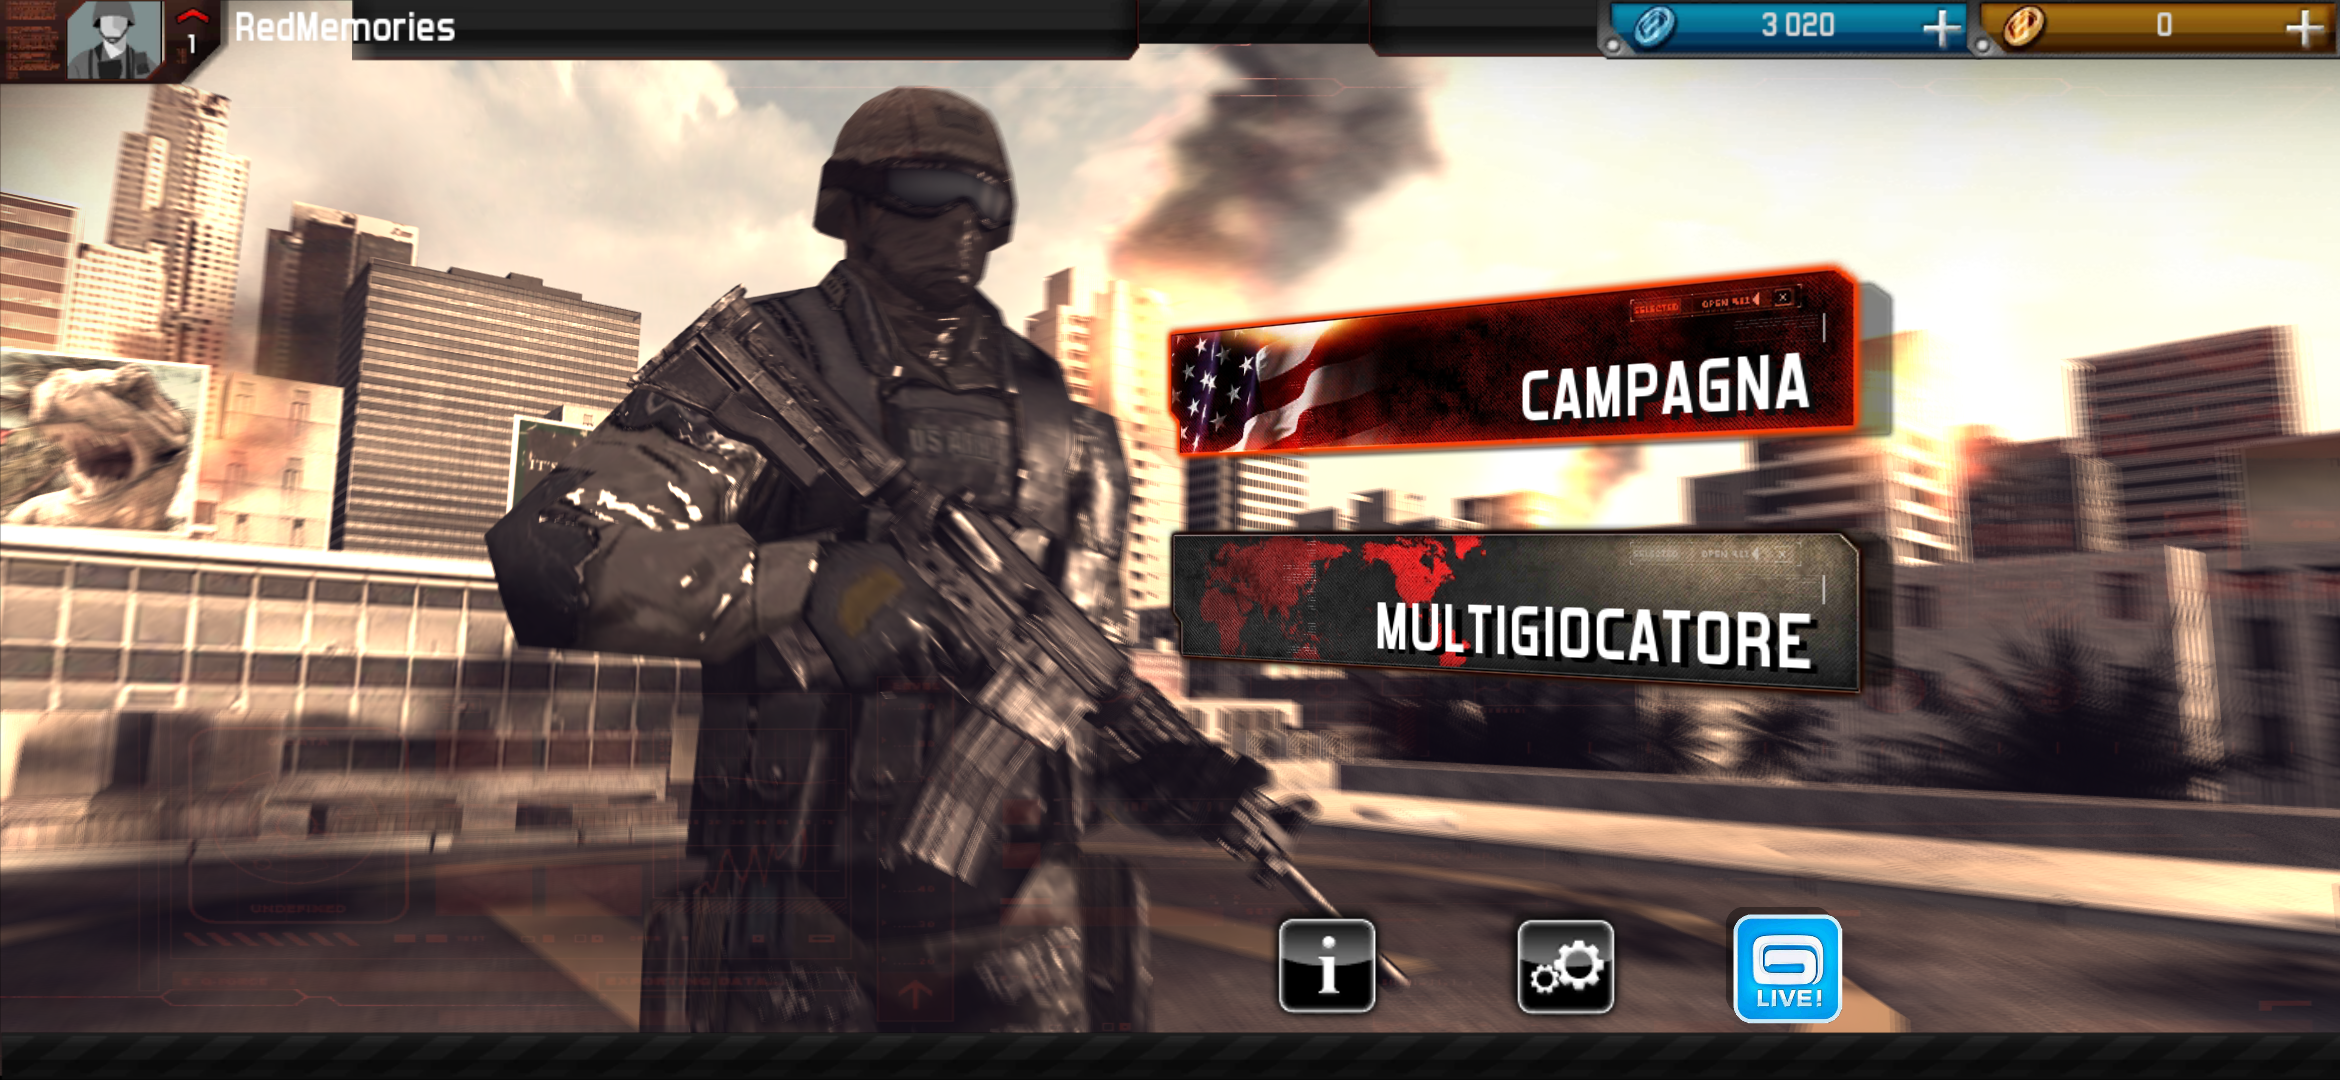
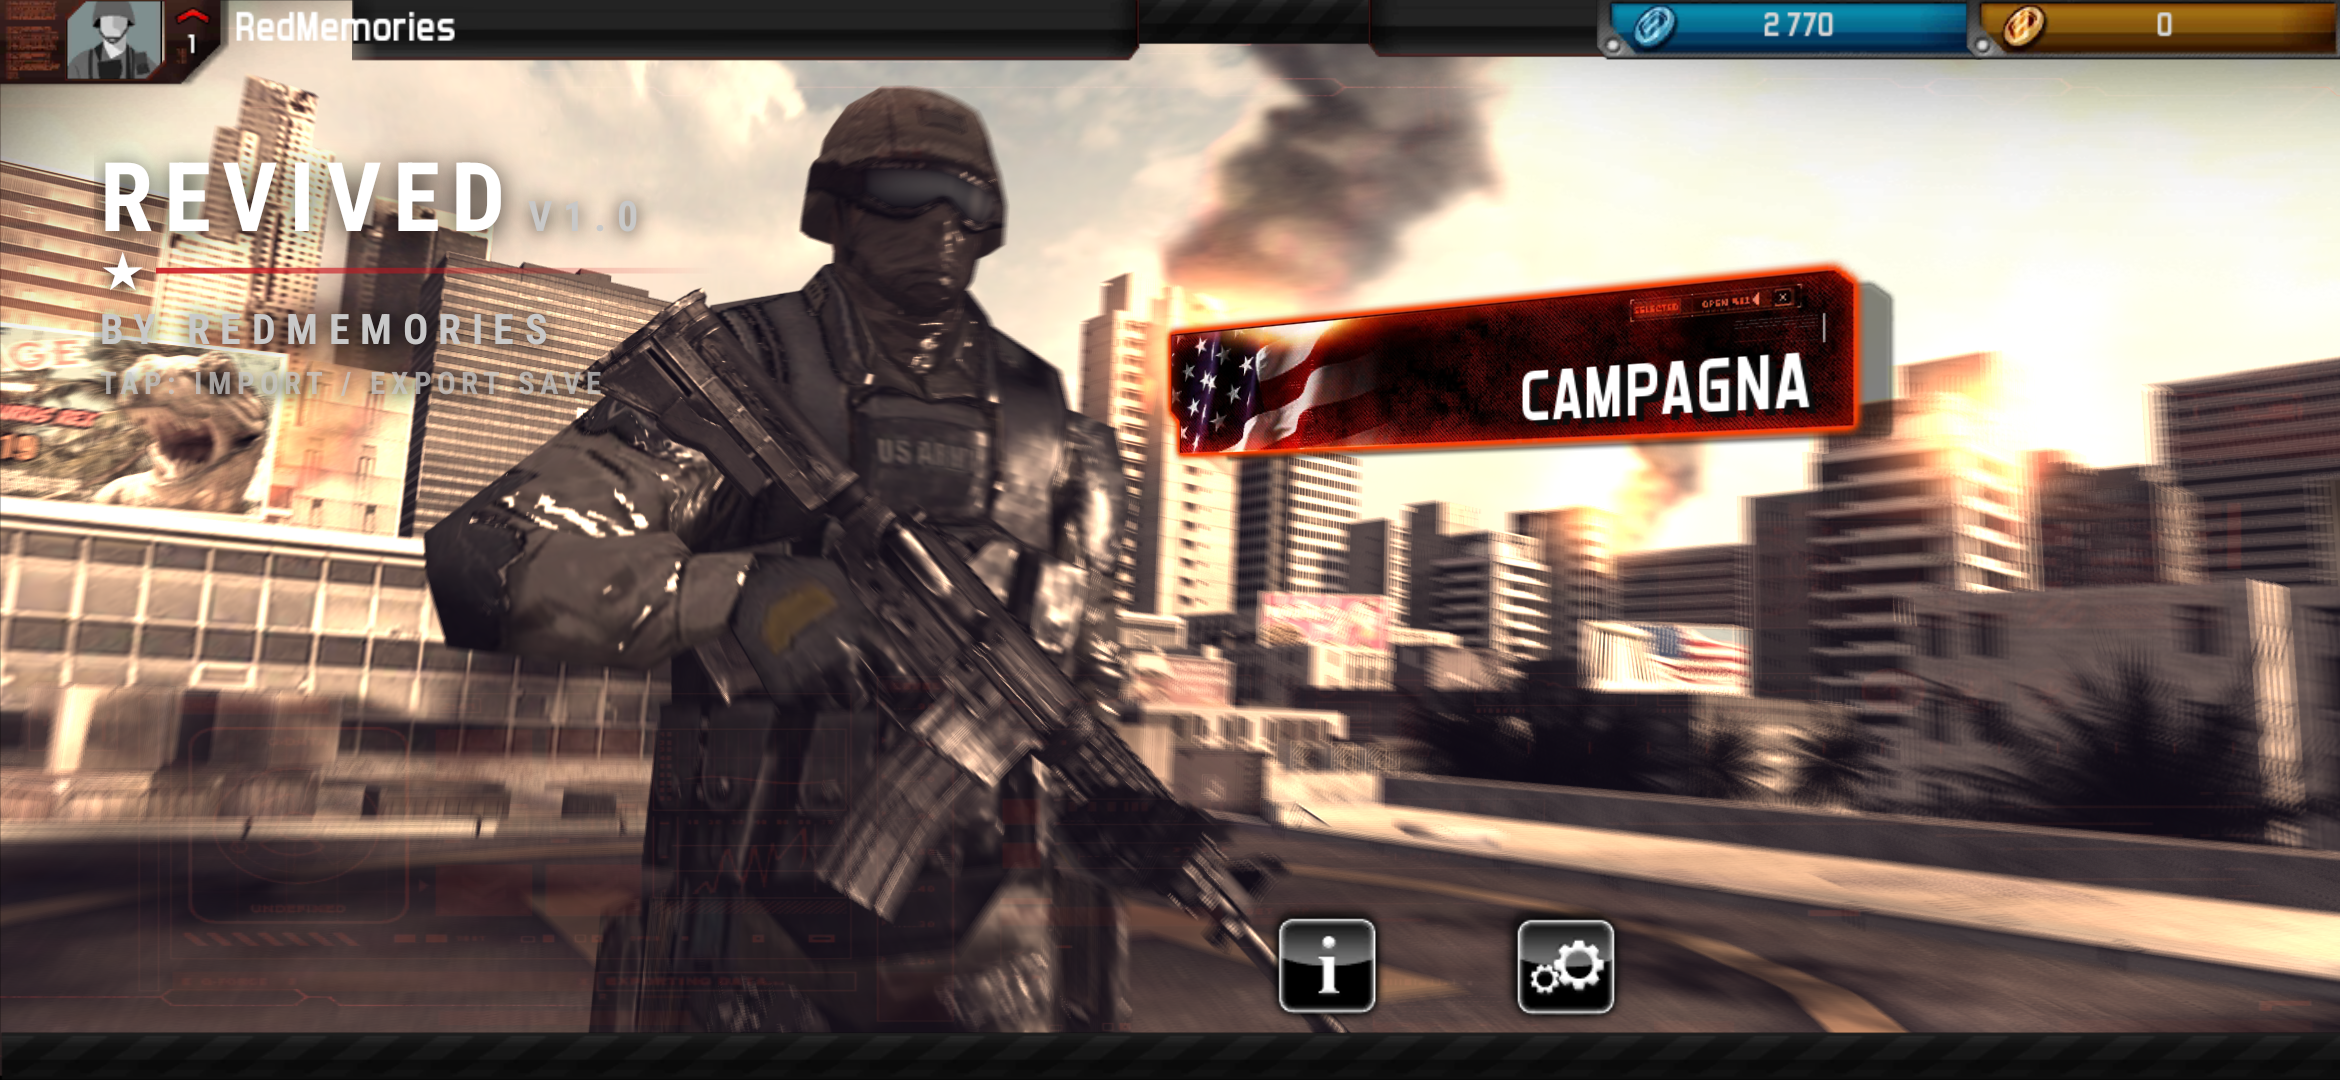
Release v1.0

diff --git a/README.md b/README.md
@@ -1,42 +1,82 @@
 # Modern Combat 3 Revived
 
-Progress: **79%**
+[![Main menu](screenshots/main-menu.png)](screenshots/main-menu.png)
 
-`████████░░`
+> Modern Combat 3: Fallen Nation is a game by Gameloft. This is a non-commercial fan project, not affiliated with Gameloft. The game was pulled from the stores years ago. This repo is my private archive, please don't share the release files.
 
-[![Title screen](screenshots/title.png)](screenshots/title.png)
+**Download: [Releases](../../releases)**: Android (64-bit) and PC (Windows).
 
-> Modern Combat 3: Fallen Nation is a mobile game by Gameloft. This is a non-commercial fan project, not affiliated with Gameloft. The game was pulled from the stores years ago.
+## What I did
 
-## A note from me
+I didn't remake the game and I didn't touch the gameplay. The campaign, the weapons, the maps and the enemies are exactly the ones from 2011.
 
-It's taking me a bit longer than planned, because I stopped to fix the issues people reported in my other games right away. Hopefully nobody has problems anymore after those updates haha.
+As with Modern Combat 4, I recompiled the whole engine to 64-bit code ahead of time: 28,964 of its 28,968 functions, rebuilt for today's phones. The game now runs as a modern native 64-bit app, at 120 fps on my phone.
 
-Anyway, I'm making the game fully playable, and hopefully bug-free from the start on every device, so I won't have to update it many times. There will still be updates later for multiplayer, and I think that's where the problems will start. I'll use the same approach as MC4.
+Once it was running, I gave it the treatment it deserves on a modern phone:
 
-## Where it's at
-
-- **Native 64-bit: done.** The whole engine is converted to native 64-bit code: 28,964 of its 28,968 functions. It runs on today's 64-bit-only phones as a modern app.
-- **The campaign is playable** on my test phone: title screen, menus, mission briefings with their videos and subtitles, and Mission 1 with shooting, moving and the story scenes, at 120 fps.
-- **HD textures: done.** The iOS version had 900+ textures at double resolution. They're now in the Android game: faces, uniforms, weapons and buildings are much sharper.
-- **Best graphics on every phone:** the game always uses its highest graphics profile, with 32-bit color, 16x anisotropic filtering and 4x antialiasing.
-- **Controller support: done.** It works in menus and in game, with the touch controls hidden while you play with the controller. Tested with an Xbox layout; PlayStation and Switch controllers use the same button positions.
-- **Gyroscope aiming: done**, with calibration and sensitivity in the game options.
-- Touch controls work right up to the screen edges, without triggering Android's back gesture.
-- I checked all of the game's shaders against a strict graphics driver, the kind non-Snapdragon phones use, and fixed the one that would have broken there.
-- Native resolution and full screen, edge to edge.
-- Music, voices and sound effects work.
-- Saves work: "Continue" brings you back where you left off.
-
-### HD textures, before and after
-
-Top: the original Android textures. Bottom: the new HD ones.
+- **HD textures.** The iOS version had 900+ textures at double resolution: faces, uniforms, weapons and buildings. They're now in the Android game, converted to a format every Android GPU can read.
+- **The highest graphics profile on every GPU.** The game only knew the phones of 2011 and gave every newer GPU the low-end profile. Now everyone gets the best one, with 32-bit color, 16x anisotropic filtering and 4x anti-aliasing.
+- **Full screen at the screen's native resolution**, edge to edge on today's tall displays.
+- **Mission briefings with subtitles in your language.** The original Android version never showed them.
+- **Controller support** in the menus and in the game, using the game's own controller mode: the touch controls disappear while you play with the controller. Tested with an Xbox layout; PlayStation and Switch controllers use the same button positions.
+- **Gyroscope aiming**, with calibration and sensitivity in the game options.
+- **Touch controls that work on tall screens**: swiping from the edges to aim no longer triggers Android's back gesture.
+- **A crash that closed the game** after going back to the menu from a mission a few times is fixed. It was a bug in the original 2011 engine.
+- **Settings**: long-press the game icon → **Settings**: graphics quality, frame rate limit (max, 90 or 60) and an **Anti-aliasing** on/off switch for phones that have trouble with it.
 
 [![HD textures, before and after](screenshots/hd-textures-before-after.png)](screenshots/hd-textures-before-after.png)
 
-### Screenshots
+*Top: the original Android textures. Bottom: the HD ones.*
 
-[![Main menu](screenshots/main-menu.png)](screenshots/main-menu.png)
+## Bring your save (#5)
+
+You can import your own `SaveGame.bin`: tap **REVIVED by RedMemories** in the main menu → **Import**, and pick the file (pick `CheckPoint.bin` too, if you have it, to continue mid-mission). The game checks the file first and makes a backup of your current save in `Download/ModernCombat3Revived/Saves`. **Export** copies your save there, so you can move it to another phone or to the PC.
+
+Your progress stays yours: credits, rank and unlocks are the ones in your save, nothing is unlocked for you.
+
+Saves from the old Gameloft APKs should work too, since the file format is the same, but I didn't have one to test. If yours is rejected, please attach it to issue #5.
+
+## Offline, no ads
+
+The game is fully offline, with no ads and no tracking. Gameloft's online services don't exist anymore: the game never reaches them, and the buttons that sent you there (LIVE!, Twitter, Customer care, the "+" that opened the paid shop) are gone. The in-game shop that uses the credits you earn by playing still works. The game data is packed inside the APK, so there's nothing to download separately.
+
+Multiplayer is hidden in this version: it comes in a later update.
+
+[![Briefing](screenshots/briefing.png)](screenshots/briefing.png)
+
+## Install
+
+### Android
+
+1. Download `ModernCombat3Revived.apk` from **Releases**
+2. Install it
+3. Open it. The first launch takes a few seconds to unpack the game, after that it starts right away
+
+Requirements: 64-bit Android phone with **Android 10 or newer**, about **4 GB** of free space. I play it on a Galaxy S26 Ultra. I haven't tried it on phones without a Snapdragon chip yet (MediaTek Dimensity, Exynos, Google Tensor), but I checked all the game's shaders against a strict graphics driver, the kind those phones use, and fixed the one that would have broken there. If you play on one of them, let me know how it runs.
+
+### PC (Windows 10/11, 64-bit)
+
+1. Download `ModernCombat3Revived-PC.zip` from **Releases** and extract it
+2. Double-click `ModernCombat3Revived.exe`
+
+Nothing else to install. It needs a graphics card with Direct3D 11. Keyboard and mouse (WASD, mouse to aim, left click fire, right click aim, R reload, G grenade, Shift sprint, Esc pause) or a controller. All the controls and options are in `README.txt` inside the zip.
+
+Your PC save is in the `save\app` folder: click **REVIVED by RedMemories** in the main menu to open it. Phone and PC saves are the same file, so you can move your progress between them.
+
+[![PC](screenshots/pc-main-menu.png)](screenshots/pc-main-menu.png)
+
+### Updates
+
+When a new version comes out you don't need the big download again: install `ModernCombat3Revived-update.apk` over the game, or extract `ModernCombat3Revived-PC-update.zip` over your PC folder. Your saves are kept.
+
+## Reporting problems
+
+- **Android:** go to the home screen, **long-press the game icon → Save report**. The file is saved in `Download/ModernCombat3Revived`. If the game crashes, a report is saved there automatically.
+- **PC:** `save\log.txt` in the game folder.
+
+Please open an issue with the file and say which version you have: it's on the main menu, next to **REVIVED**.
+
+## Screenshots
 
 [![Helicopter](screenshots/helicopter.png)](screenshots/helicopter.png)
 
@@ -46,8 +86,29 @@ Top: the original Android textures. Bottom: the new HD ones.
 
 ## What's next
 
-- Crash reports and a "Save report" shortcut, like in MC4, so problems on your phone can be fixed quickly.
-- Settings, by long-pressing the game icon: quality, fps limit, and an **Antialiasing** on/off switch for phones that have issues with it.
-- Fully offline, with the buttons to dead Gameloft services hidden.
-- Final APK, then the release.
-- Multiplayer comes later, in a separate update.
+- multiplayer, in a separate update
+- ragdoll physics: people asked for them. MC3's engine has no physics engine at all (its deaths are animations), so it would mean adding one from scratch. I want to look into it, but no promises
+
+## Credits
+
+Revived by **RedMemories**
+
+Thanks to the [dynarmic](https://github.com/azahar-emu/dynarmic) project: its ARM decoder is the base of the recompiler, and it runs the game engine in the PC version.
+
+Original game by Gameloft.
+
+## 🎮 What should I revive next?
+
+Request a game or vote for the next one on **[redmemories.it](https://www.redmemories.it)**: the most voted games are the first ones I look at.
+
+## ☕ Support my work
+
+If you enjoy my projects and would like to support my work, you can send a tip in **USDC on the Polygon network**. Every project I create is and will always remain free, but any support is greatly appreciated and helps me keep working on new projects and improvements.
+
+```
+0x0e1C11ccA29E9D2AAa9384eE0d5464f4d079E61D
+```
+
+⚠ Send only **USDC on Polygon** to this address: other tokens or networks could be lost.
+
+Thank you for your support! ❤
